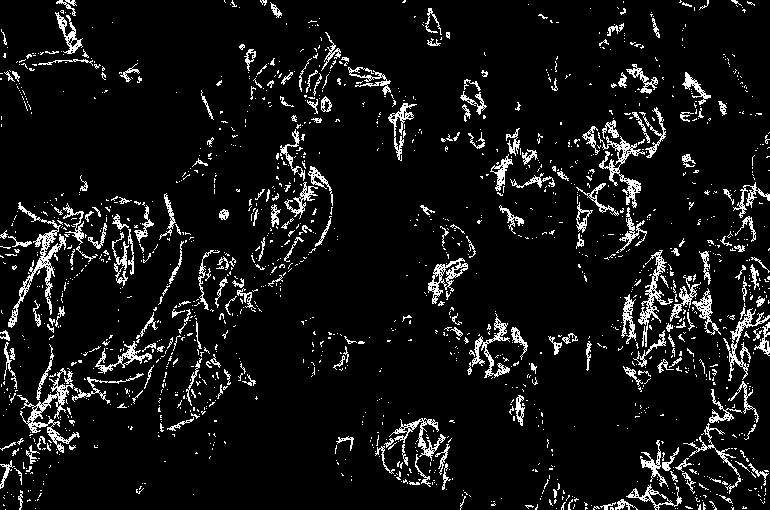
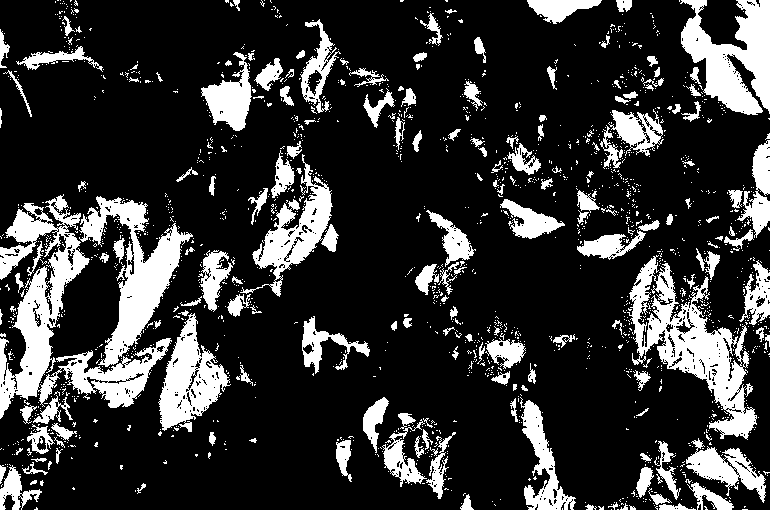
magicly works but it finds the leaves not the oranges

diff --git a/a2.py b/a2.py
@@ -1,4 +1,4 @@
-#!/usr/bin/python3
+#!/usr/local/bin/python
 
 
 import cv2
@@ -66,9 +66,9 @@ def varianceFilter(img):
     for k in range(0, img.shape[0]):
         for i in range(0, img.shape[1]):
             if mean[k, i] <= 90:
-                mean[k, i] = 0
-            else:
                 mean[k, i] = 255
+            else:
+                mean[k, i] = 0
 
     cv2.imwrite("mean.png", mean)
 
@@ -129,12 +129,26 @@ def varianceFilter(img):
     fin_br[fin_br < 255] = 0
     fin_br[fin_br == 255] = 1
 
-    res = np.logical_and.reduce([fin_ndi, fin_mean, fin_cr, fin_br])
-    res.dtype = 'uint8'
+    res = np.zeros(shape=(img.shape[0], img.shape[1]))
 
-    print(res)
 
-    cv2.imwrite("final.png", res * 255)
+   # gray_threshold
+    for k in range(0, img.shape[0]):
+        for i in range(0, img.shape[1]):
+
+
+            if fin_ndi[k,i] == 1 and fin_mean[k,i] == 1 and fin_cr[k,i] == 1 and fin_br[k,i] == 1:
+               res[k, i] = 255
+            else:
+               res[k, i] = 0
+
+
+   #res = np.logical_and.reduce([fin_ndi, fin_mean, fin_cr, fin_br])
+   #res.dtype = 'uint8'
+
+   #print(res)
+
+    cv2.imwrite("final.png", res)
 
 
 
@@ -164,7 +178,6 @@ def NDI(img):
 
     b, g, r = cv2.split(img)
 
-
     ndi = np.zeros(shape=(img.shape[0], img.shape[1]))
 
     for k in range(0, img.shape[0]):
@@ -173,18 +186,15 @@ def NDI(img):
             bot = int(g[k, i]) + int(r[k, i])
 
             if bot != 0:
-                val = top / bot
+                val = float(top) / float(bot)
 
                 if val > 0:
                     ndi[k, i] = 255
-                elif val == 0:
+                else:
                     ndi[k, i] = 0
             else:
                 ndi[k, i] = 0
 
-
-
-    fin = np.zeros(shape=(img.shape[0], img.shape[1]))
 
     cv2.imwrite("ndi.png", ndi)
 
@@ -201,8 +211,3 @@ if __name__ == '__main__':
 
     shadow_res = shadowReduce(image)
     varianceFilter(shadow_res)
-
-
-
-
-
